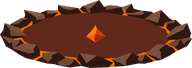
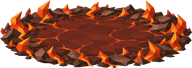
feat: redraw field markers as ground-covering elements, not discs (#681)
User feedback: the rim-plus-disc construction read as an item icon
sitting on the ground, not as grass/fire/water/electricity covering it.
Rebuilt all four field markers so the element itself fills the ellipse
edge to edge with no border ring, plate, or center emblem: leaf blades
grow out of the ground, flames rise from scorched earth, water fills a
shallow pool, electricity cracks across the surface. Height and detail
sit at the outer edge and taper toward the middle so a summon standing
on the marker stays readable. crater_ember redone as a round teardrop
spark with its brightest facet at the center, replacing the earlier
blocky-gem read. Same pixel size as before, RGBA, transparent corners,
.meta untouched.

diff --git a/.art/PRODUCTION-STATUS.md b/.art/PRODUCTION-STATUS.md
@@ -73,9 +73,11 @@
 | `BombSprite.png`, `BombSpriteBomb.png` | 클라이언트 PR (이슈 #679) | 222x256 / 231x256 RGBA. 채색 그림체에서 master-v2 로 재작업. 도화선 불꽃을 양쪽 다 금색으로 맞췄다 |
 | `explode.png` | 클라이언트 PR (이슈 #682) | 841x769 RGBA. 마법 폭발/실패 표시. 남색-보라 결정 파편 다발, 가운데 비움, 원본의 분홍·보라 정체성은 파편 두 개에 악센트로 남김. green 키 제거, 네 모서리 alpha 0 |
 | `hit_effect.png` | 클라이언트 PR (이슈 #682) | 771x700 RGBA. 피격 표시, 8방향 쐐기 방사형 파편, 가운데 비움. magenta 키 제거, 네 모서리 alpha 0 |
-| `fire_field.png` | 클라이언트 이슈 #681 재작업 검수 | 192x68 RGBA. 지옥불 팔레트, 테두리는 재 낀 암석 조각 사이로 주황 균열만 노출하고 중앙은 평평한 그을린 단색 지면 |
-| `leaf_field.png` | 클라이언트 이슈 #681 재작업 검수 | 192x79 RGBA. 자연 정령 팔레트, 잎 모양 조각으로 테두리를 두르고 중앙은 평평한 단색 지면 |
-| `water_field.png` | 클라이언트 이슈 #681 재작업 검수 | 192x69 RGBA. 물 슬라임 팔레트, 물결 조각으로 테두리를 두르고 중앙은 평평한 단색 수면 |
+| `electric_field.png` | 클라이언트 이슈 #681 재작업 검수 | 192x84 RGBA. 번개 정령 팔레트, 바닥 전체를 덮는 균열·아크 패턴. 테두리·원반·중앙 표식이 있던 앞선 시도는 아이템처럼 보여 반려했다 |
+| `fire_field.png` | 클라이언트 이슈 #681 재작업 검수 | 192x68 RGBA. 지옥불 팔레트, 그을린 땅에서 솟은 불꽃이 타원 전체를 덮는다. 테두리가 가장 높고 중앙으로 갈수록 낮아져 소환수 자리가 남는다 |
+| `leaf_field.png` | 클라이언트 이슈 #681 재작업 검수 | 192x79 RGBA. 자연 정령 팔레트, 땅에서 자란 풀잎이 타원 전체를 덮는다. 테두리가 가장 높고 중앙으로 갈수록 낮아져 소환수 자리가 남는다 |
+| `water_field.png` | 클라이언트 이슈 #681 재작업 검수 | 192x69 RGBA. 물 슬라임 팔레트, 물에 잠긴 얕은 웅덩이가 타원 전체를 덮는다. 물결은 테두리에 몰리고 중앙은 잔잔하다 |
+| `crater_ember.png` | 클라이언트 이슈 #681 재작업 검수 | 64x58 RGBA. 분화구에서 튄 불씨 하나, 둥근 물방울 실루엣에 면 3~4개, 가장 밝은 면이 중앙 |
 
 ## 다음 교체 후보
 
